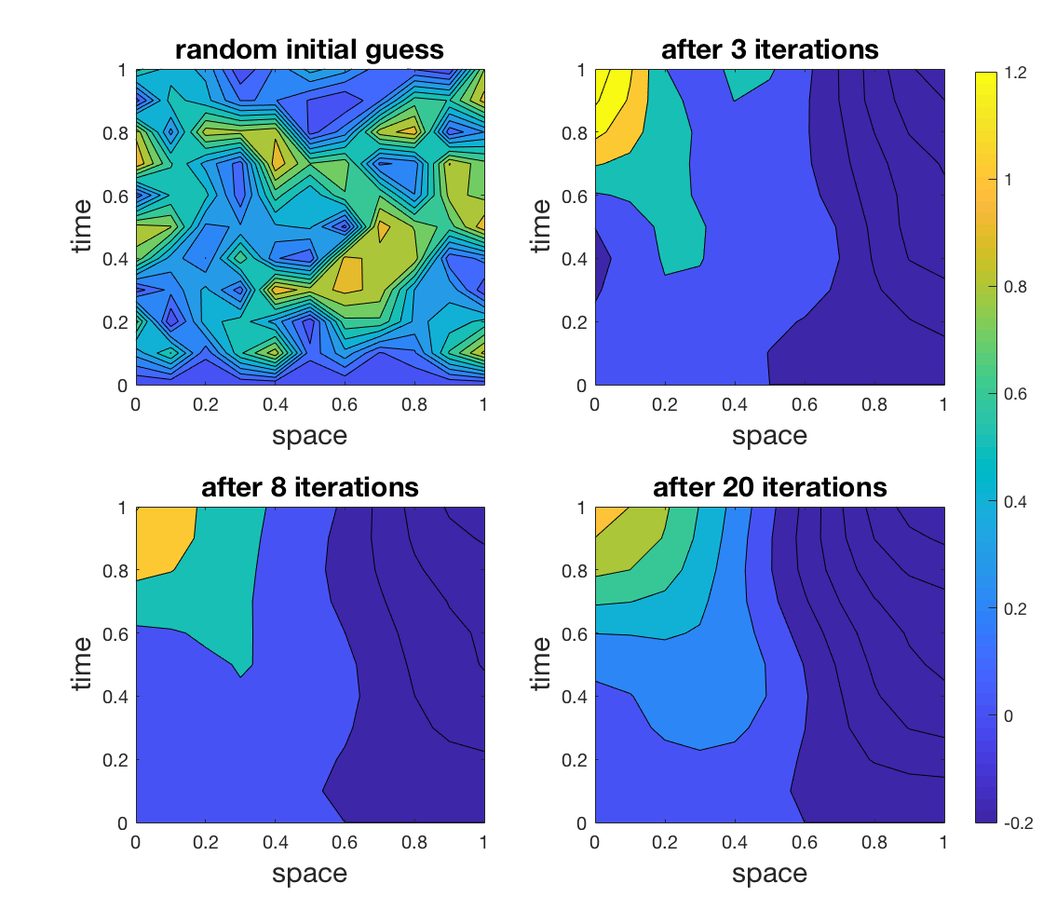
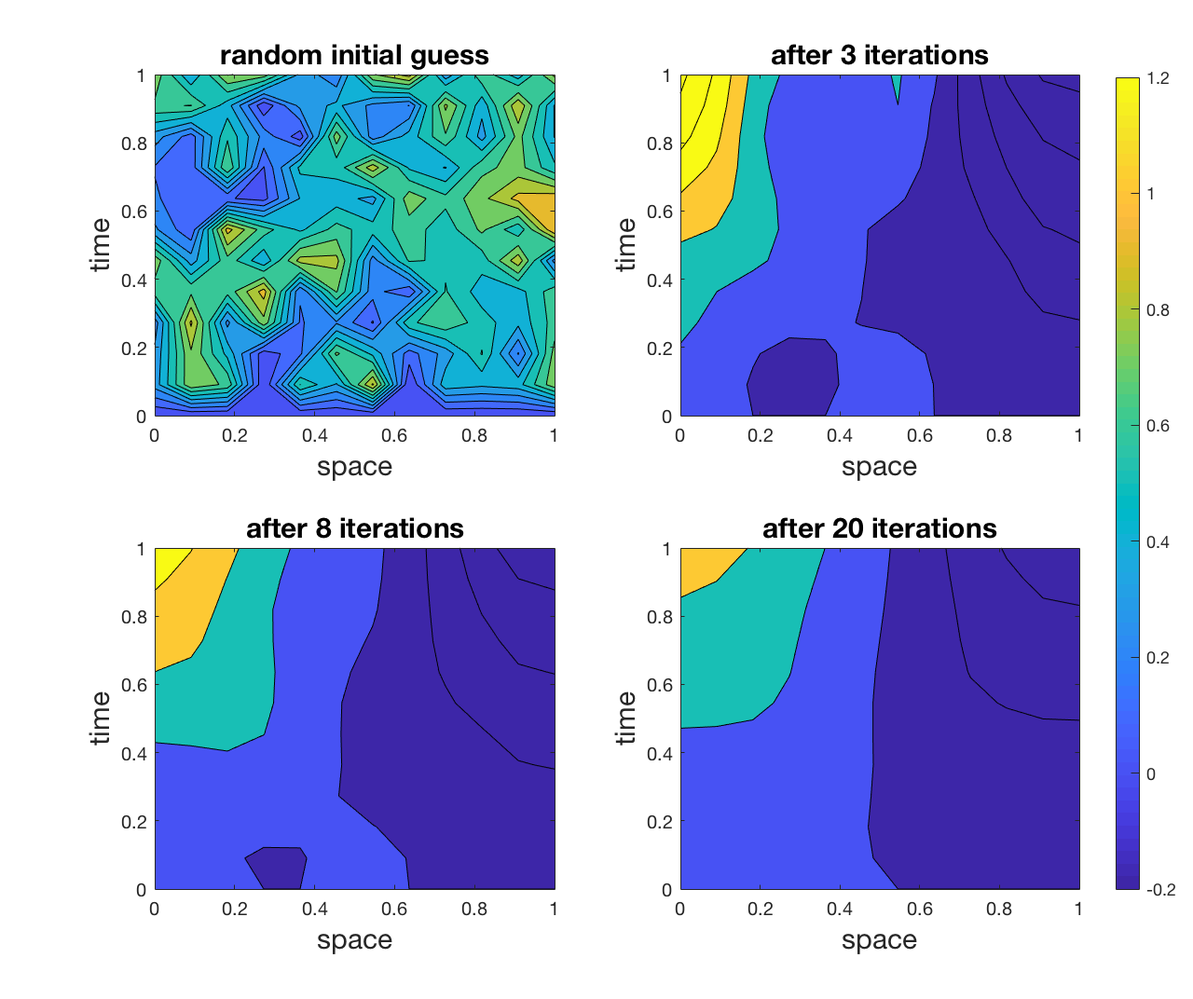
changes writing

diff --git a/writings/chapters/prologue.tex b/writings/chapters/prologue.tex
@@ -4,7 +4,7 @@
 
 \chapter{Prologue}
 
-In this thesis we  discuss and develop adaptive multigrid solvers for space-time discretisations of parabolic reaction diffusion equations with a potentially nonlinear forcing term. They present a broad class of partial differential equations that can be written in the form
+In this thesis we  discuss and develop \textit{adaptive} multigrid solvers for space-time discretisations of parabolic reaction diffusion equations with a potentially nonlinear forcing term. They present a broad class of partial differential equations that can be written in the form
 \begin{ceqn}
 \begin{equation}
 u_t - div ( D(x) \nabla u) = f(u)
@@ -13,11 +13,11 @@ u_t - div ( D(x) \nabla u) = f(u)
 for some $u = u(x,t)$ in a space domain over a time interval in addition to a set of boundary conditions. We will postpone more rigorous definitions to the following chapters and for now simply assume the problem to be well posed. This type of equations is used to describe a variety of physical phenomena. In its simplest form we have a zero source term, that is $f = 0$. This heat equation describes the variation of temperature in a particular region over time starting from a set of initial conditions which will eventually reach an equilibrium state. Other important applications are the transformation of one or more chemical substances into another over time, the development of animal populations in biology \cite{cosner2008reaction} or the propagation of wavefronts \cite{zegeling2004adaptive}. A particular instance of a traveling wave which we will particularly focus on and which originally motivated the topic of this thesis, is the propagation of electric signals in human heart tissue. It can be modeled using the so-called monodomain equations which are also a reaction-diffusion system \cite{franzone2014mathematical}. The contraction of our heart is governed by an electric impulse whose charge distribution travels as a wavefront through our cell tissue. When trying to numerically approximate such a process one faces a number of challenges. One of the main difficulties that arises is the multiscale range in space and time \cite{colli2004parallel}. The overall space and time domain are very large compared to the rapid local changes of the current potential in the wavefront which therefore require a high accuracy in time and several space dimensions. Therefore \textit{representative} discretisations result in large systems of equations involving \textit{extensive} numbers of degrees of freedom. Solving them in an accurate, robust and efficient way has been and continuous being an extensive area of interest and research [source]. 
 \smallskip
 \\
-In general when trying to numerically approximate the solution of a partial differential equation there is no unique way to do so and hence many design choices have to be made. A very important one includes the way of how to discretise the domain [source]. A frequently used possibility is the method of lines approach, where first the spatial derivatives are discretised and the time variables remain continuous which will give rise to a system of ordinary differential equations that is then to be solved by an appropriate method [source]. Another very common approach is to use a time stepping method in combination with for example a finite element discretisation in space [source]. That is one computes an approximation for all space elements or nodes at a certain time $t_n$ and then uses those results or even preceding ones to compute the approximate solution at the next time $t_{n+1}$. This is the natural way to perform operations, because this is also how we move through time, sequentially, additionally the solution at a given time usually depends on the previous one but not the other way around. 
-However in current technological development where there is no further significant increase in clockspeed the only way to really achieve a gain in computational power is through an increase in the number of processors. Therefore for this to actually translate to a computational speed up one requires algorithms to be more and more parallelisable, that is to allow for more operations to be performed at the same time. Both methodologies mentioned above contain inherently sequential processes. As for example for the latter only the space dimensions allow for parallelisation and as this saturates [source] there is no possibility for a further speed up. Thus it computationally only makes sense to look for methods that utilise a parallelisation in space and time simultaneously. This in turn naturally invites for a space-time discretisation of the equation as a whole \cite{gander201550}, which is also what we will be considering in this thesis, a large space-time system which we want to be able to mainly solve in parallel. A short discussion of the research done on this field so far, advantages and difficulties as well as some further references can be found in section 3.1., while the particular discretisation we chose will be introduced in chapter 4.
+In general when trying to numerically approximate the solution of a partial differential equation there is no unique way to do so and hence many design choices have to be made. A very important one includes the way of how to discretise the domain [source]. A frequently used possibility is the method of lines approach, where first the space is discretised e.g. using finite elements and where the time variable remains continuous which will give rise to a system of ordinary differential equations that is then to be solved by an appropriate method [source]. A very common approach is to use a time stepping method [source]. That is one computes an approximation for all space elements or nodes at a certain time $t_n$ and then uses those results or even preceding ones to compute the approximate solution at the next time $t_{n+1}$. This is the natural way to perform operations, because this is also how we move through time, sequentially, causality implies that the solution at a given time depends on the previous one but not the other way around. 
+However in current technological development where there is no further significant increase in CPU clockspeed, the only way to really achieve a gain in computational power is through an increase in the number of processors. Therefore for this to actually translate to a computational speed up one requires algorithms to be more and more parallelisable, that is to allow for more operations to be performed at the same time. The approach outlined above contains inherently sequential processes, since only the space dimensions allow for parallelisation. As this saturates [source] there is no possibility for a further speed up. Thus it makes sense to look for methods that utilise a parallelisation in space and time simultaneously. This in turn naturally leads to a space-time discretisation of the equation as a whole \cite{gander201550}, which is also what we will be considering in this thesis, a large space-time system which we want to be able to mainly solve in parallel. A short discussion of the research done on this field so far, advantages and difficulties as well as some further references can be found in section 3.1., while the particular discretisation we chose will be introduced in chapter 4.
 \bigskip
 \\
-It has shown that large linear systems of equations are often most efficiently solved using iterative schemes [source], among them multigrid methods represent an important and powerful class to approximate such solutions. In the case of sparse, symmetric, positive definite systems they even provide optimality in the sense that their complexity can be bounded by $o(N)$, where $N$ is the number of degrees of freedom \cite{brandt1977multi}. Unfortunately the behavior of multigrid algorithms in an indefinite or not symmetric setting is often not yet very well understood or not suitable [source], and convergence is generally not guaranteed [source]. Therefore we would like to aim for the construction of a system that can claim as many of these preferrable properties as possible. However most space-time solution methods do not give rise to symmetric positive definite systems \cite{gander201550} which is why we decided to recast problem (1.1) as an optimisation probelm, an ansatz known as least squares finite element methods \cite{bochev2009least} and which will be first introduced in section 3.4. It entails the construction of a minimisation problem whose solution coincides with the solution of the differential equation. Instead of solving the original problem we now apply a finite element approach in space-time to solve the auxiliary problem whose value for a given input $u$ denotes an energy that we can minimise over. In the linear case we are, due to the symmetry and positive definiteness of the system, guaranteed the existence of a global minimiser. In the nonlinear case we consider linearisations of the system which are generally not positive definite, but the symmtetry is maintained because of the commutativity of derivatives. The problem is non-convex but by successively reducing energy we can still find local minima. Hence for a nonlinear source or reaction term $f$, we additionally require an outer nonlinear iteration scheme which succuessively solves linearisations of the least squares functional. The non-linear solvers that were employed in the implementation section here are a damped Newton method \cite{deuflhard2011newton} and a trust region method \cite{conn2000trust}, and will be introduced in section 3.2. We have convergence to a global minimiser in a neighbourhood of the solution, that is for a sufficiently good initial starting iterate the solution to the original problem is recovered.
+It has been shown that large linear systems of equations are often most efficiently solved using iterative schemes [source]. Among them, multigrid methods represent an important and powerful class to approximate such solutions. In the case of sparse, symmetric, positive definite systems they even provide optimality in the sense that their complexity can be bounded by $O(N)$, where $N$ is the number of degrees of freedom \cite{brandt1977multi}. Unfortunately the behavior of multigrid algorithms in an indefinite or not symmetric setting is often not yet very well understood or not suitable [source], and convergence is generally not guaranteed [source]. Therefore we would like to aim for the construction of a system that can claim as many of these preferrable properties as possible. However most space-time solution methods do not give rise to symmetric positive definite systems \cite{gander201550} which is why we recast problem (1.1) as an optimisation probelm, an ansatz known as least squares finite element methods \cite{bochev2009least} and which will be first introduced in section 3.4. It entails the construction of a minimisation problem whose solution coincides with the solution of the differential equation. Instead of solving the original problem we now apply a finite element approach in space-time to solve the auxiliary problem whose value for a given input $u$ denotes an energy that we can minimise. In the linear case we are, due to the symmetry and positive definiteness of the system, guaranteed the existence of a global minimiser. In the nonlinear case we consider linearisations of the system which are generally not positive definite, but the symmtetry is maintained because of the commutativity of derivatives. The problem is non-convex but by successively reducing energy we can still find local minima. Hence for a nonlinear source or reaction term $f$, we additionally require an outer nonlinear iteration scheme which succuessively solves linearisations of the least squares functional. The non-linear solvers that were employed in the implementation section here are a damped Newton method \cite{deuflhard2011newton} and a trust region method \cite{conn2000trust}, and will be introduced in section 3.2. We have convergence to a global minimiser in a neighbourhood of the solution, that is for a sufficiently good initial starting iterate the solution of the original problem is recovered.
 \smallskip
 \\
 Below we can see a schematic overview of how these beforementioned core concepts are tied together in order to give rise to a comprehensive \textit{solver}.
@@ -29,7 +29,7 @@ Below we can see a schematic overview of how these beforementioned core concepts
 		\item  Reformulate (1.1) as a mimimisation problem $J$ whose solution coincides with the one of the original equation. 
 		\item Discretise the problem using a space-time finite element approach
 		\item Derive a non-linear iteration scheme (e.g. Newton or Trust Region method) where we solve a linearisation of the problem using the current iterative solution in each step
-		\item  Solve the arising linear system of equations using an adaptive multigrid method
+		\item  Solve the arising linear system of equations using a multigrid method
 		\item Repeat step 4 with the updated solution each time until a stopping criterion is met 
 	\end{enumerate}	
 \end{framed}
@@ -38,10 +38,10 @@ Below we can see a schematic overview of how these beforementioned core concepts
 These are the main ingredients that we will tie together in this thesis in order to develop an efficient, robust and accurate solver to tackle problems of type (1.1). It is a rather novel construction that has, to our knowledge, not been studied in this context and will therefore require further investigations before drawing any final conclusions on its utility. The mathematical methodologies will be introduced more thoroughly in chapter 3, where we will also explain the particular choice for each of them in more detail, attempting to make use of their favourable properties while trying to avoid the pitfalls. In chapter 4 we derive a proper problem formulation, which we will then discretise in order to derive linear systems of equations to be solved iteratively. Afterwards we introduce multrigrid methods in chapter 5, especially discussing the particularities that arise due to the construction presented in chapter 4. Chapter 6 then contains the numerical results we obtained for various test cases and discusses certain behaviors we observed during our work which will then be followed by a conclusion and an outlook in chapter 7. 
 \bigskip
 \\ 
-In order to really obtain a meaningful solution $u$ we need a number of properties to be fulfilled. In each nonlinear iteration step the multigrid solver has to converge to the solution of the linearised least squares minimisation problem. In the outer iteration we need the nonlinear iteration scheme to converge to the minimiser of our non-linear functional whose solution as mentioned above is supposed to correspond to the solution of the original problem. However we are not ensured global convergence since the problem is in general non convex. 
+In order to really obtain a meaningful solution $u$ we need a number of properties to be fulfilled. In each nonlinear iteration step the multigrid solver has to converge to the solution of the linearised least squares minimisation problem. In the outer iteration we need the nonlinear iteration scheme to converge to the minimiser of our non-linear functional whose solution as mentioned above is supposed to correspond to the solution of the original problem. However we are not ensured global convergence since the problem is in general non-convex. 
 \bigskip
 \\
-Overall we are aiming for a better understanding of the versatility of space-time least squares finite element approaches in general and in combination with multigrid methods. But then an additional focus will be given to the construction of a particular algebraic multigrid method that takes intrinsic properties related to the monodomain equation into account, developing an equally accurate but more efficient way through an adapted coarse grid construction. To allow for a better understanding of the processes involved in this particular application the following chapter will give a brief insight into the functioning of the human heart, the transmission of electric potential through tissue, the different charge distribution within or between cells or cellular structures and how this can be turned into a mathematical model. 
+Overall we are aiming for a better understanding of the versatility of space-time least squares finite element approaches in general and in combination with multigrid methods. \textit{A focus will be given to the construction of a particular algebraic multigrid method that takes intrinsic properties related to the monodomain equation into account, developing an equally accurate but more efficient way through an adapted coarse grid construction.} To allow for a better understanding of the processes involved in this particular application the following chapter will give a brief insight into the functioning of the human heart, the transmission of electric potential through tissue, the different charge distribution within or between cells or cellular structures and how this can be turned into a mathematical model. 
 
 
 \end{document}

diff --git a/writings/chapters/implementation.tex b/writings/chapters/implementation.tex
@@ -187,22 +187,16 @@ where $P$ is the preconditioner and $\omega$ stands for the damping factor. Sinc
 \begin{figure}[ht!]
 	\centering
 	\includegraphics[scale=0.28]{images/implementation/contour_plot_1_blk_size1by1}
-	\caption{Iterates after $k = 0,3,8, 20$ iterations for a patch size of $1 \times 1$, and a grid with $10 \times 10$ elements. needed more than 8000 iterations in order for the norm of the residual to be $< 10^{-9}$.}
+	\caption{Iterates after $k = 0,3,8, 20$ iterations for a patch size of $1 \times 1$, and a grid with $11 \times 11$ elements. needed more than 9000 iterations in order for the norm of the residual to be $< 10^{-9}$.}
 \end{figure}
 
-We can see that the damped block Jacobi smoother really leads to a fast reduction of the high frequency error whereas the low frequency error is only reduced very slowly. \textit{something about computationally very cheap.} Again we only plotted $u$ as $\sigma$ behaves in the same way, simply with different boundary conditions. \\
+We can see that the damped block Jacobi smoother really leads to a fast reduction of the high frequency error whereas the low frequency error is only reduced very slowly. \textit{something about computationally very cheap.} Again we only plotted $u$ as $\sigma$ behaves in the same way, simply with different boundary conditions. 
 
-\textit{Block Jacobi 2x2 DIVERGES ?! can that be?}
-
-
-
-\textit{In this case they were chosen to be .... We used a ... grid and a patch size of ...}
-\bigskip
-\\
-PICTURES AFTER ... MANY ITERATIONS ....
-\bigskip
-\\
-\textit{We can see that ... maybe another patch size ... difference?}
+\begin{figure}[ht!]
+	\centering
+	\includegraphics[scale=0.28]{images/implementation/contour_plot_1_blk_size3by4}
+	\caption{Iterates after $k = 0,3,8, 20$ iterations for a patch size of $3 \times 4$, and a grid with $11 \times 11$ elements. needed more than 3177 iterations in order for the norm of the residual to be $< 10^{-9}$.}
+\end{figure}
 
 Another type of smoother that we tested is a Gauss-Seidel \textit{line smoother} \cite{adams2001distributed} which can also be categorised as a Vanka smoother  \textit{write more about that reference?}. One considers each spatial degree of freedom individually but together for all times as well as the values for $\sigma$ and $u$. We extract all matrix values for each of the $x_i$, to construct submatrices. We then first solve exactly for all odd subsets of $\tilde{c}_i$, here coloured in black and update the solution before solving for all even subsets, here coloured in red. Hence for all subsets labeled in black we can solve in parallel, and subsequently for all subsets in red. 
 
@@ -248,12 +242,14 @@ We repeated the same test as before where the preconditioner $P$ is now defined 
 \begin{figure}[ht!]
 	\centering
 	\includegraphics[scale=0.28]{images/implementation/contour_plot_1_lineSm}
-	\caption{Iterates after $k = 0,3,8, 20$ iterations for the described line smoother, using a grid with $10 \times 10$ elements. It needed more than about 1300 iterations in order for the norm of the residual to be $< 10^{-9}$. where $A, f$ as before}
+	\caption{Iterates after $k = 0,3,8, 20$ iterations for the described line smoother, using a grid with $11 \times 11$ elements. It needed more than about 1759 iterations in order for the norm of the residual to be $< 10^{-9}$. where $A, f$ as before}
 \end{figure}
 
 As one might expect the line smoother converges much faster than the block Jacobi iteration, since the individual blocks we solve for exactly are larger. We can also see that the regions become more homogenous more quickly. \textit{there are quite large areas where we go below 0, why?}. But obviously this comes with an increase in the computational cost. 
+\\
+Performs much better than 3 by 4, why? Gauss Seidel? 
 
-
+\pagebreak
 \section{Numerical Test Cases}
 \subsection{Heat Equation}
 
@@ -283,15 +279,142 @@ also how many steps do we need until convergence of the smoothers by itself
 
 \subsection{Linearisation of a Monodomain Equation}
 
+Before considering the full nonlinear problem we draw our attention to its linearisation in a neighbourhood of the solution $s$, the full description of how to obtain this solution we refer to the next section. Under the assumption that we have a unique local minimiser of the problem, we know that we have convexity close to the solution, that is the hessian $H_s = H(s)$ is positive definite and the gradient is very close to zero. \\
+In order to better understand the behavior of the hessian around the solution we perform an error analysis using a Jacobi smoother on the linearised system. More specifically we want to see how small pertubations in the solution in areas of the wavefront and the constant regions behave under the iteration of the smoother. \textit{This could be in order to construct adapted coarse spaces that take these different local behaviors into account.} \\
+We consider the following iteration 
+\begin{ceqn}
+	\begin{equation}
+	\begin{aligned}
+e_{k+1} &= e_k + P(\nabla J - H_s e_k) \quad \text{ or} \\
+e_{k+1} &= e_k - P H_s e_k 
+	\end{aligned}
+	\end{equation}
+\end{ceqn}
+if we assume exactly that $\nabla J = 0$, and where $P$ describes the preconditioner. We now let $e_0$ equal to zero except for a small pertubation either in the area of the wavefront or the constant regions and see how this behaves under iteration.
+
+\begin{ceqn}
+	\begin{equation}
+	\begin{aligned}
+u_{k+1} &= u_k - H_k^{-1}(\nabla J_k) \\
+H_k u_{k+1} &= H_k u_k - \nabla J_k, \\ 
+\\
+\text{ let } r_k := H_k u_k - \nabla J_k
+\text{ and solve } H_k u_{k+1} = r_k \quad \text{using multigrid}
+	\end{aligned}
+	\end{equation}
+\end{ceqn}
+
+
 
 \subsection{Monodomain Equation}
 
+The simplified monodomain equation that shows the movement of an excitation front through space-time looks as follows
 
+\begin{ceqn}
+	\begin{equation}
+	\begin{aligned}
+\partial_t u - div(D \nabla u) &= u (1 - u ) (\alpha - u), \qquad &D > 0, \ 0 < \alpha < 1 \\
+u(x, 0) &= u_0(x) &\forall \ x \in S \\
+\nabla u \cdot n &= 0 \qquad &\forall \ (x,t) \in \{ x \in \{0,S\}, t \in (0,T) \} 
+	\end{aligned}
+		\end{equation}
+\end{ceqn}
+We can see that the right-hand side is clearly nonlinear as it describes a third order polynomial. It can be shown that the equation has 3 fixed points, two stable fixed in zero and one, and an unstable fixed point in $\alpha$ \cite{deuflhard2011adaptive}. Hence depending on the initial conditions $u_0$ the solution will tend to either zero or one, unless it is exactly $\alpha$ and then through diffusion, very much dependent on diffusion constant though, if there is values larger than $\alpha$ eventually lead to an activation of entire domain. Below we can see approximations of the solution.
 
-talk about non convexity \\
+talk about non convexity, therefore using a direct solver \\
 Show what solution looks like, wavefront with initial conditions \\
+we can clearly see that this is only the excitation and not the depolarisation, (is maybe less of an interest as long as is it depolarises again eventually)
+\begin{figure}[ht!]
+	\centering
+	\includegraphics[scale=0.3]{images/implementation/sol_d0_001_1by20_20by40elem}
+	\includegraphics[scale=0.3]{images/implementation/sol_d0_003_1by20_20by40elem}
+	\caption{For both graphs we have $u_0 = max(1-2x, 0)$, homogeneous Neumann boundary conditions on the spatial boundaries of the domain, for 20 elements in space and 40 in time. On the left we have a diffusion constant $D= 10^{-3}$, whereas on the right we have $D=3 \cdot 10^{-3}$.}
+\end{figure}
+The two equations giving rise to the above solutions only differ in the choice of the diffusion constant $D$. As to be expected we can see that with a larger value of $D$, the activation happens much more quickly. We can also see that the front is not as steep, as we have a faster transport of electric potential through space. 
+\smallskip
+\\
+As previously mentioned the solutions are obtained using a dogleg trust region method for the nonlinear iteration, which is a combination of a gradient descent and a Newton iteration. \textit{More specifically we have ... description of the algorithm. ONLY WORKS FOR LOCALLY POS DEF.....	which we have. WHY NOT NEWTON UNLESS NOT SPD THEN GRADIENT DESCENT, maybe i can check for convexity in a point and if not just do gradient descent?!!} 	
+\smallskip
+\\
+We are using a quadratic model to approximate the functional $J$, that is we solve
 
+\begin{ceqn}
+	\begin{equation}
+	\begin{aligned}
+\min_p m(p) = f + g^T p + \frac{1}{2} p^T H p \qquad s.t. \ ||p|| \leq \Delta, \ p \in span\{g, H^{-1}g\}. 
+	\end{aligned}
+	\end{equation}
+\end{ceqn}
 
+\begin{ceqn}
+	\begin{equation}
+	\begin{aligned}
+p^U = - \frac{g^Tg}{g^T H g} g
+	\end{aligned}
+	\end{equation}
+\end{ceqn}
+
+\begin{ceqn}
+	\begin{equation}
+	\begin{aligned}
+	\tilde{p}(\tau) = \begin{cases}
+	\tau p^U \qquad &0 \leq \tau \leq 1 \\
+	p^U + (\tau - 1)(p^B - p^U) \qquad &1 \leq \tau \leq 2
+	\end{cases}
+	\end{aligned}
+	\end{equation}
+\end{ceqn}
+
+ 
+The discretisation of the least squares formulation uses the same approximation spaces and basis as introduced in the previous sections. The nonlinear part is computed as described in section 4.5 and 4.6. \textit{MORE....?}
+\smallskip
+\\
+\\
+at the end, convex, quadratic model good fit, show table
+
+\begin{figure}
+\begin{center}
+	\begin{tabular}{||c | c | c | c | c ||} 
+		\hline
+		accepted Iter & overall Iter & $ || J || $ & $|| \nabla J ||$ & TR Radius \\ [0.5ex] 
+		\hline\hline
+		1 & 6 & 87837 & 787 & \\ 
+		\hline
+		2 & 7 & 78 & 5415 & \\
+		\hline
+		3 & 545 & 778 & 7507 & \\
+		\hline
+		4 & 545 & 18744 & 7560 & \\
+		\hline
+		5 & 88 & 788 & 6344 & \\ [1ex] 
+		\hline
+	\end{tabular}
+\end{center}
+\caption{Last steps of the Iteration, where $\mathcal{S} = (0, 1), \mathcal{T} = (0, 20)$, 20 elements in space, 40 elements in time, diffusion constant $d=10^{-3}$, }
+\end{figure}
+
+\begin{figure}
+	\begin{center}
+		\begin{tabular}{||c | c | c | c | c ||} 
+			\hline
+			accepted Iter & overall Iter & $ || J || $ & $|| \nabla J ||$ & TR Radius \\ [0.5ex] 
+			\hline\hline
+			1 & 6 & 87837 & 787 & \\ 
+			\hline
+			2 & 7 & 78 & 5415 & \\
+			\hline
+			3 & 545 & 778 & 7507 & \\
+			\hline
+			4 & 545 & 18744 & 7560 & \\
+			\hline
+			5 & 88 & 788 & 6344 & \\ [1ex] 
+			\hline
+		\end{tabular}
+	\end{center}
+	\caption{Last steps of the Iteration, where $\mathcal{S} = (0, 1), \mathcal{T} = (0, 20)$, 20 elements in space, 40 elements in time, diffusion constant $d=10^{-3}$, }
+\end{figure}
+
+could also talk a little bit about how with an increase of diffusion constant problem seems to become more "elliptic" or more "convex", better behaved ... 
 \begin{itemize}
 	\item general construction
 	\item talk about non-convexity 

diff --git a/writings/eigenstaendigkeitserklaerung.tex b/writings/eigenstaendigkeitserklaerung.tex
@@ -1,0 +1,25 @@
+\documentclass[../draft_1.tex]{subfiles}
+
+\begin{document}
+
+% Eigenstaendigkeitserklaerung 
+\section*{Eigenst\"andigkeitserkl\"arung}
+%\vspace{1.5cm}
+
+%\begin{tabular}{|l|l|}
+%	\hline
+%	Name
+%\end{tabular}
+
+\vspace{1.5cm}
+Hiermit versichere ich, dass ich die vorliegende Arbeit selbstst\"andig verfasst und keine anderen als die angegebenen Hilfsmittel benutzt habe. Die Stellen der Arbeit, die anderen Werken im Wortlaut entnommen wurden, habe ich in jedem einzelnen Fall durch die Angabe der Quelle bzw.\ der Herkunft als Entlehnung kenntlich gemacht. Die eingereichte Arbeit ist nicht anderweitig als Pr\"ufungsleistung vorgelegt worden oder in englischer oder in einer anderen Sprache als Ver\"offentlichung erschienen.
+\vspace{1.5cm}
+
+
+
+\begin{tabular}{@{}p{2in}p{3.7in}@{}}
+	\multicolumn{2}{@{}l@{}}{\hrulefill} \\
+	Ort, Datum & Lisa Gaedke-Merzh\"auser \\
+\end{tabular}
+
+\end{document}

diff --git a/writings/chapters/conclusions.tex b/writings/chapters/conclusions.tex
@@ -9,7 +9,7 @@
 
 \begin{itemize}
 	\item maybe a space-time approach where future influencing the past isn't a great idea, should follow causality principle? 
-	\item 
+	\item maybe the scaling ... how terms are weighted ... or this multigrid thing, since the algorithm seems to work alright for other problems ... unfortunate combination of things
 \end{itemize}
 
 \end{document}
